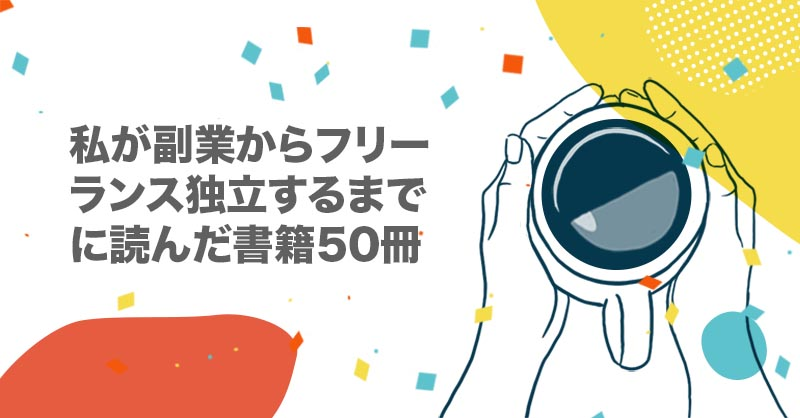
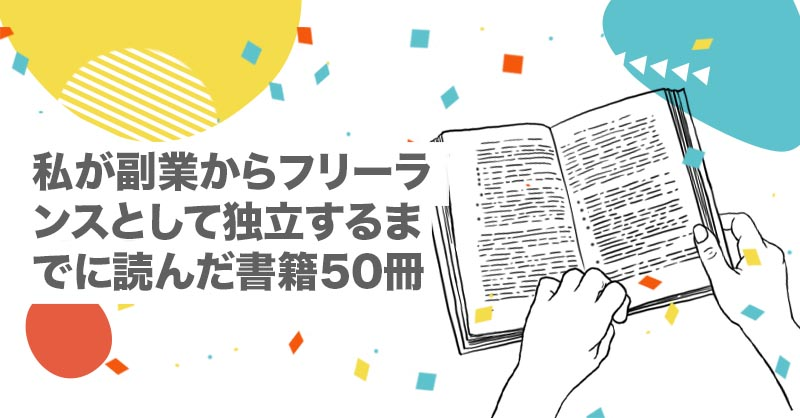
new post

diff --git a/exampleSite/content/japanese/post/blog-overall.md b/exampleSite/content/japanese/post/blog-overall.md
@@ -1,0 +1,172 @@
+---
+title: "【保存版】少ない記事でしっかり育つ副業ブログ作り完全ロードマップ【気軽にブログを始めてみたい人向け】"
+date: 2021-11-01
+lastmod: 2021-11-01
+# post thumb
+images:
+  - "images/blog/blog-overall.jpg"
+# description
+description: "今までのブログ関連の記事をまとめ、ブログ開設後半年までにやるべきことを全てまとめました。"
+# Taxonomies
+categories: ["メディア運営","WEBマーケティング"]
+tags: ["ブログ"]
+type: "trending" # available type (epic, trending, popular, or regular)
+draft: false
+share: true
+---
+
+こんにちは！めお(<a href="https://twitter.com/meeowmiya" target="_blank">@meeowmiya</a>)です。
+
+本記事では、<span class="keiko-red">**運を呼び込むためのコネや根回し、人が面倒臭がってやらない実績作りは命より重いという話をします。**</span>
+
+{{< say-left >}}
+自分には才能もないし、何をやってもうまくいかないな
+{{< /say-left >}}
+
+という人に参考にしていただければと思います。
+
+他人の成功は、非凡な才能があったから起こったように見えるかもしれません。
+
+しかし、スキルや学歴・職歴を見ると、同じようなレベル感の人は結構いるはずです。
+
+自分もそれぐらいできるのに！と思うこともあるかもしれません。
+
+なのに、なぜ自分は成功できないのか。運やタイミングが悪いからか？
+
+多くの場合、<span class="keiko-red">**成功する人は「人が面倒くさがってやらないコネ作りや根回し、実績作り」をしており、これが決定打となって成功しています。**</span>
+
+もしかしたら、<span class="keiko-red">**一生懸命スキルを磨く一方で、「運を呼び込む努力」はできていない**</span>かもしれません。
+
+それでは詳しく見ていきましょう。
+
+{{< toc >}}
+
+## ブログ選び
+
+私は<span class="keiko-red">**Wordpressも、noteやはてなブログなどの無料レンタルブログサービスも使わず、静的サイトジェネレーターであるhugoを使って当ブログを運営しています。**</span>
+
+👇の記事では、次のような内容を解説します。
+
+* **なぜWordpressやnoteを使わないか**
+* **なぜ知名度の低いhugoが個人ブログに最適か**
+
+### Wordpress
+{{< notice "link">}}
+<div class="iframely-embed"><div class="iframely-responsive" style="padding-bottom: 52.25%; padding-top: 120px;"><a href="https://menglish.jp/post/wordpress-not-really/" data-iframely-url="//cdn.iframe.ly/t9Uuwja"></a></div></div><script async src="//cdn.iframe.ly/embed.js" charset="utf-8"></script>
+{{< /notice >}}
+
+### 無料レンタルブログ(はてなブログやnoteなど)
+{{< notice "link">}}
+<div class="iframely-embed"><div class="iframely-responsive" style="padding-bottom: 45.4545%; padding-top: 120px;"><a href="https://menglish.jp/post/note-not-really/" data-iframely-url="//cdn.iframe.ly/906Ba69"></a></div></div><script async src="//cdn.iframe.ly/embed.js" charset="utf-8"></script>
+{{< /notice >}}
+
+### 静的サイトジェネレーター(hugoなど)
+{{< notice "link">}}
+<div class="iframely-embed"><div class="iframely-responsive" style="padding-bottom: 52.25%; padding-top: 120px;"><a href="https://menglish.jp/post/hugo-intro/" data-iframely-url="//cdn.iframe.ly/kEoFjey"></a></div></div><script async src="//cdn.iframe.ly/embed.js" charset="utf-8"></script>
+{{< /notice >}}
+
+
+## 始めたての頃にやるべきこと
+
+ここでは<span class="keiko-red">**ブログを始めて半年でやるべきこと**</span>をまとめました。
+
+* **1-2ヶ月目は「やめないブログ作り」**
+* **3-6ヶ月目は「とにかく記事を増やす」**
+
+をオススメします。理由について、詳しくは👇の記事をご覧ください。
+
+{{< notice "link">}}
+<div class="iframely-embed"><div class="iframely-responsive" style="padding-bottom: 52.25%; padding-top: 120px;"><a href="https://menglish.jp/post/blog-first-months/" data-iframely-url="//cdn.iframe.ly/nylzbdp"></a></div></div><script async src="//cdn.iframe.ly/embed.js" charset="utf-8"></script>
+{{< /notice >}}
+
+{{< notice "link">}}
+<div class="iframely-embed"><div class="iframely-responsive" style="padding-bottom: 52.25%; padding-top: 120px;"><a href="https://menglish.jp/post/blog-hundred-entry/" data-iframely-url="//cdn.iframe.ly/SaxLJAF"></a></div></div><script async src="//cdn.iframe.ly/embed.js" charset="utf-8"></script>
+{{< /notice >}}
+
+
+## ブランディング
+
+私はイラストレーターとしてブログを運用することを重視していて、その上でブランディングには結構気をつけています。
+
+<span class="keiko-red">**ブランディングは目先の収益を犠牲にしてでも、長期的に意味があると考えています。**</span>
+
+{{< notice "link">}}
+<div class="iframely-embed"><div class="iframely-responsive" style="padding-bottom: 52.25%; padding-top: 120px;"><a href="https://menglish.jp/post/illustrator-blog/" data-iframely-url="//cdn.iframe.ly/RB1XNag"></a></div></div><script async src="//cdn.iframe.ly/embed.js" charset="utf-8"></script>
+{{< /notice >}}
+
+{{< notice "link">}}
+<div class="iframely-embed"><div class="iframely-responsive" style="padding-bottom: 52.25%; padding-top: 120px;"><a href="https://menglish.jp/post/strong-online-brand/" data-iframely-url="//cdn.iframe.ly/eKViILe"></a></div></div><script async src="//cdn.iframe.ly/embed.js" charset="utf-8"></script>
+{{< /notice >}}
+
+
+## 記事の作り方
+
+ここでは次のような内容を解説します。
+
+* **ブログネタの探し方**
+* **読まれるブログ記事の書き方**
+* **アイキャッチの作り方**
+
+{{< notice "link">}}
+<div class="iframely-embed"><div class="iframely-responsive" style="padding-bottom: 52.25%; padding-top: 120px;"><a href="https://menglish.jp/post/find-blog-topic/" data-iframely-url="//cdn.iframe.ly/JQjX38C"></a></div></div><script async src="//cdn.iframe.ly/embed.js" charset="utf-8"></script>
+{{< /notice >}}
+
+{{< notice "link">}}
+<div class="iframely-embed"><div class="iframely-responsive" style="padding-bottom: 52.25%; padding-top: 120px;"><a href="https://menglish.jp/post/blog-bulk-writing/" data-iframely-url="//cdn.iframe.ly/IwNyXmi"></a></div></div><script async src="//cdn.iframe.ly/embed.js" charset="utf-8"></script>
+{{< /notice >}}
+
+{{< notice "link">}}
+<div class="iframely-embed"><div class="iframely-responsive" style="padding-bottom: 52.25%; padding-top: 120px;"><a href="https://menglish.jp/post/eyecatch/" data-iframely-url="//cdn.iframe.ly/DugAMCK"></a></div></div><script async src="//cdn.iframe.ly/embed.js" charset="utf-8"></script>
+{{< /notice >}}
+
+
+## SEO対策
+
+ブログ開設初期のSEO対策について解説しています。
+
+{{< notice "link">}}
+<div class="iframely-embed"><div class="iframely-responsive" style="padding-bottom: 52.25%; padding-top: 120px;"><a href="https://menglish.jp/post/seo-for-new-website/" data-iframely-url="//cdn.iframe.ly/2LY7kQW"></a></div></div><script async src="//cdn.iframe.ly/embed.js" charset="utf-8"></script>
+{{< /notice >}}
+
+## トラブルシューティング
+
+初心者の人が特につまづきやすいGoogleアドセンスとTwitterカードのセットアップについて解説します。
+
+### Googleアドセンス
+
+{{< notice "link">}}
+<div class="iframely-embed"><div class="iframely-responsive" style="padding-bottom: 52.25%; padding-top: 120px;"><a href="https://menglish.jp/post/adsense-prep/" data-iframely-url="//cdn.iframe.ly/JLllhZq"></a></div></div><script async src="//cdn.iframe.ly/embed.js" charset="utf-8"></script>
+{{< /notice >}}
+
+{{< notice "link">}}
+<div class="iframely-embed"><div class="iframely-responsive" style="padding-bottom: 52.25%; padding-top: 120px;"><a href="https://menglish.jp/post/adsense-site-unavailable/" data-iframely-url="//cdn.iframe.ly/BMKsE4v"></a></div></div><script async src="//cdn.iframe.ly/embed.js" charset="utf-8"></script>
+{{< /notice >}}
+
+
+### Twitterカード
+
+{{< notice "link">}}
+<div class="iframely-embed"><div class="iframely-responsive" style="padding-bottom: 52.25%; padding-top: 120px;"><a href="https://menglish.jp/post/twitter-card-image/" data-iframely-url="//cdn.iframe.ly/Tuw4gd7"></a></div></div><script async src="//cdn.iframe.ly/embed.js" charset="utf-8"></script>
+{{< /notice >}}
+
+
+## アドバイス検証実録
+
+<span class="keiko-red">**有名ブロガーやインフルエンサーが中心にオススメしている方法を実際に行って検証しました。**</span>
+
+### 毎日更新
+
+{{< notice "link">}}
+<div class="iframely-embed"><div class="iframely-responsive" style="padding-bottom: 52.25%; padding-top: 120px;"><a href="https://menglish.jp/post/post-everyday/" data-iframely-url="//cdn.iframe.ly/lab5o2Z"></a></div></div><script async src="//cdn.iframe.ly/embed.js" charset="utf-8"></script>
+{{< /notice >}}
+
+### とりあえず100記事
+
+{{< notice "link">}}
+<div class="iframely-embed"><div class="iframely-responsive" style="padding-bottom: 52.25%; padding-top: 120px;"><a href="https://menglish.jp/post/blog-hundred-entry/" data-iframely-url="//cdn.iframe.ly/SaxLJAF"></a></div></div><script async src="//cdn.iframe.ly/embed.js" charset="utf-8"></script>
+{{< /notice >}}
+
+## まとめ
+
+以上「少ない記事でしっかり育つ副業ブログ作り完全ロードマップ」でした！
+「役に立った」と思っていただけたら、シェアいただけますと幸いです。ブログやWEBサイトなどでのご紹介もとても嬉しいです!

diff --git a/exampleSite/content/japanese/post/bike-air.md b/exampleSite/content/japanese/post/bike-air.md
@@ -1,0 +1,122 @@
+---
+title: "ロードバイクに空気を入れらない時に確認すべき3つのこと【いいチャリ｜自転車｜サイズ｜合わない｜仏式｜細い】"
+date: 2021-11-01
+lastmod: 2021-11-01
+# post thumb
+images:
+  - "images/blog/bike-air.jpg"
+# description
+description: "フレンチバルブを使ったロードバイクに空気が入らない時に確認すべき3つのことを解説します。"
+# Taxonomies
+categories: ["豊かに暮らす","おすすめ商品"]
+tags: ["ワークライフバランス"]
+type: "regular" # available type (epic, trending, popular, or regular)
+draft: false
+share: true
+---
+
+こんにちは！めお(<u><a href="https://twitter.com/meeowmiya" target="_blank">@meeowmiya</a></u>)です。
+
+ルームメイトのお下がりでいいチャリをもらい、3年ぐらい乗り回しています。
+
+自転車があるのは便利で良いのですが、空気を入れられずしばらく苦戦していました。
+
+自分メモも兼ねて、<span class="keiko-red">**本記事ではロードバイクに空気を入れらない時に確認すべき3つのことを解説します。**</span>
+
+## 空気入れに対してサイズが合わない
+
+空気入れに対してタイヤのバルブが小さいですか？
+
+あなたのタイヤは<span class="keiko-red">**仏式バルブ（フレンチバルブまたはプレスタバルブ）という細いバルブの可能性があります。**</span>
+
+![image](../../images/blog-content/bike-air-1.jpg)<br><br>
+
+
+ほとんどの空気入れは米式バルブのサイズに合わせて作られています。
+
+仏式バルブに空気を入れるには以下の2通りです。
+
+* 仏式バルブ専用の空気入れを使う
+* アダプターを買って、米式バルブ用の空気入れを使う
+
+<span class="keiko-red">**出先で空気を入れたいときにバルブの合う空気入れがないと困るので、私はアダプターを使っています。**</span>
+
+アマゾンで安く(10個入り500円以下で)手に入るので、ご検討ください。
+
+{{% amazon 
+itemId="B071WBHW2P"
+title="ZILONG 仏式→米式アダプター フレンチバルブ １０コセット"
+author="¥400"
+publisher="ZILONG"
+imageUrl="https://m.media-amazon.com/images/I/61w+sWFrhxL._AC_UL640_FMwebp_QL65_.jpg"
+%}}
+
+
+アダプターをつけた様子。アダプターをつけたまま自転車に乗ることができます。
+
+![image](../../images/blog-content/bike-air-2.jpg)<br><br>
+
+
+## 空気が入っていかない①バルブの栓を緩めていない
+
+
+仏式バルブは、<span class="keiko-red">**フタをとる→栓を緩めるをしないと空気の出し入れができません。**</span>
+
+米式アダプターを使っている場合は次のようなステップを取ります。
+
+### ①米式アダプターのふたを外す
+![image](../../images/blog-content/bike-air-3.jpg)<br><br>
+
+### ②米式アダプターを外す
+
+![image](../../images/blog-content/bike-air-4.jpg)<br><br>
+### ③仏式バルブの栓を指で緩める
+
+![image](../../images/blog-content/bike-air-5.jpg)<br><br>
+### ④仏式バルブの栓を緩めた状態で米式アダプターを締める
+
+![image](../../images/blog-content/bike-air-3.jpg)<br><br>
+### ⑤空気を入れる
+
+![image](../../images/blog-content/bike-air-7.jpg)<br><br>
+### ⑥米式アダプターを外す
+
+![image](../../images/blog-content/bike-air-5.jpg)<br><br>
+### ⑦仏式バルブの栓を締める
+
+![image](../../images/blog-content/bike-air-4.jpg)<br><br>
+
+
+このステップを忘れると空気がどんどん抜けるのでご注意ください。
+### ⑧米式アダプターとフタを締める
+
+![image](../../images/blog-content/bike-air-2.jpg)<br><br>
+
+
+## 空気が入っていかない②空気入れのレバーの開閉が間違っている
+
+
+レバー付きの空気入れを使っている場合、レバーの開閉によって次の2つの状態を切り替えられます。
+
+1. レバーをバルブに固定できる
+2. 空気を入れられる
+
+### レバーをバルブに固定できる
+
+![image](../../images/blog-content/bike-air-6.jpg)<br><br>
+
+
+まず、レバーをこの形にして空気入れをバルブに固定します。
+
+### 空気が入る
+
+![image](../../images/blog-content/bike-air-7.jpg)<br><br>
+
+
+次に、レバーをこの形にすることで空気が入るようになります。
+
+## まとめ
+
+以上「ロードバイクに空気を入れらない時に確認すべき3つのこと」でした！
+
+「役に立った」と思っていただけたら、シェアいただけますと幸いです。ブログやWEBサイトなどでのご紹介もとても嬉しいです!

diff --git a/exampleSite/content/japanese/post/bring-luck-career.md b/exampleSite/content/japanese/post/bring-luck-career.md
@@ -4,7 +4,7 @@ date: 2021-10-31
 lastmod: 2021-10-31
 # post thumb
 images:
-  - "images/blog/first-client-employer.jpg"
+  - "images/blog/bring-luck-career.jpg"
 # description
 description: "成功する人は「人が面倒くさがってやらないコネ作りや根回し、実績作り」をしており、これが決定打となって成功しています。"
 # Taxonomies
